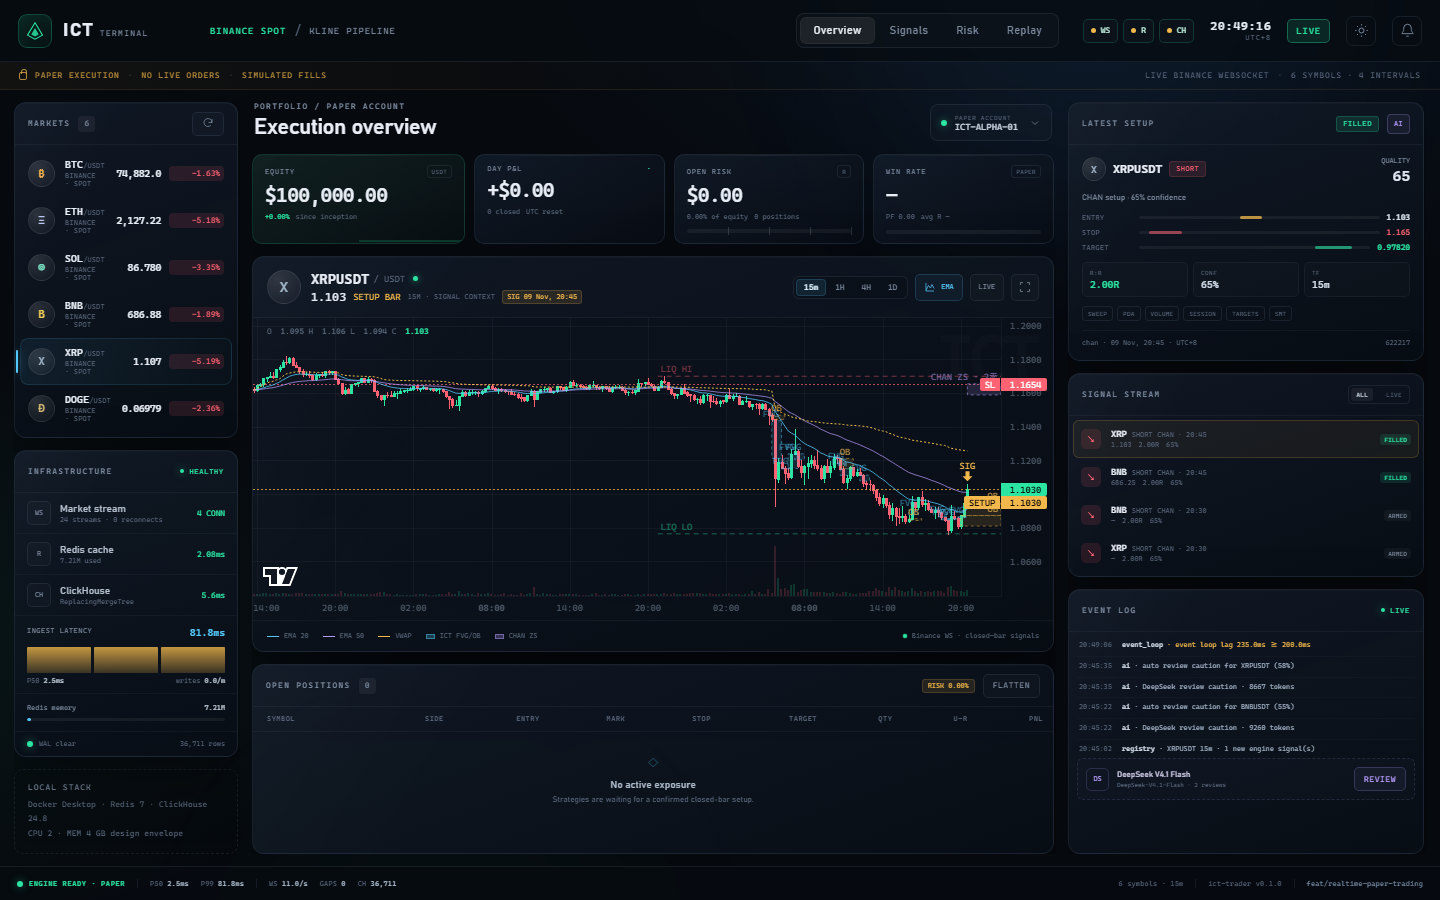
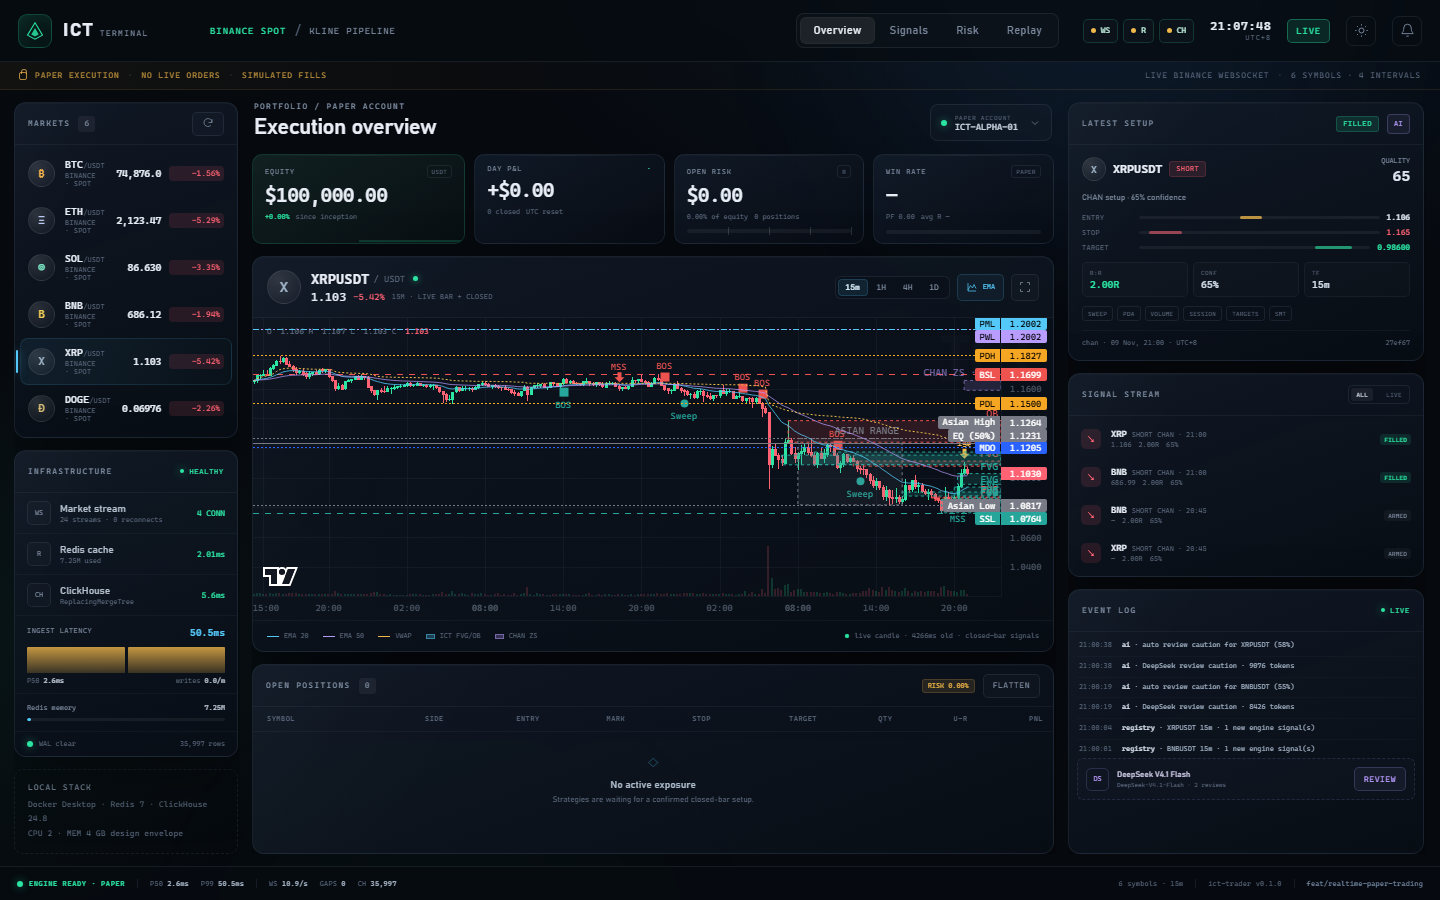
feat: add PD/PW/PM levels and ETH SMT overlays

diff --git a/src/ict_trader/realtime/static/app.js b/src/ict_trader/realtime/static/app.js
@@ -23,9 +23,15 @@
     fetchSeq: 0,
     aiBusy: false,
     aiReview: null,
+    dailyBars: [],
+    dailyKey: "",
+    smt: null,
+    smtKey: "",
+    smtBars: [],
     aiHashOpened: false,
     anchorSignalId: null,
     signalLinkOpened: false,
+    symbolLinkOpened: false,
   };
 
   const TF_MS = { "1m": 60000, "5m": 300000, "15m": 900000, "1h": 3600000, "4h": 14400000, "1d": 86400000 };
@@ -225,6 +231,11 @@
     if (location.hash === "#ai" && !S.aiHashOpened) {
       S.aiHashOpened = true;
       openAiModal();
+    }
+    const linkedSymbol = new URLSearchParams(location.search).get("symbol");
+    if (linkedSymbol && !S.symbolLinkOpened) {
+      S.symbolLinkOpened = true;
+      if ((snap.watchlist || []).some(w => w.symbol === linkedSymbol)) selectSymbol(linkedSymbol);
     }
     const linkedSignal = new URLSearchParams(location.search).get("signal");
     if (linkedSignal && !S.signalLinkOpened) {
@@ -653,6 +664,44 @@
   }
 
   // ------------------------------------------------------------- chart data
+  async function ensureContextData() {
+    const symbol = S.symbol;
+    if (!symbol) return;
+    if (S.dailyKey !== symbol) {
+      S.dailyKey = symbol;
+      S.dailyBars = [];
+      try {
+        const r = await fetch(`/api/klines?symbol=${encodeURIComponent(symbol)}&interval=1d&limit=90`, { cache: "no-store" });
+        if (r.ok) {
+          const d = await r.json();
+          if (S.symbol === symbol) S.dailyBars = d.bars || [];
+        }
+      } catch (_) { /* optional context */ }
+    }
+    const smtKey = `${symbol}|${S.tf}`;
+    if (S.smtKey !== smtKey) {
+      S.smtKey = smtKey;
+      S.smt = null;
+      S.smtBars = [];
+      if (symbol !== "BTCUSDT") {
+        try {
+          const r = await fetch(`/api/klines?symbol=ETHUSDT&interval=${encodeURIComponent(S.tf)}&limit=220&include_live=true`, { cache: "no-store" });
+          if (r.ok) {
+            const d = await r.json();
+            if (S.symbol === symbol && S.tf === smtKey.split("|")[1]) {
+              S.smtBars = d.bars || [];
+              S.smt = computeSMT(S.bars, S.smtBars);
+            }
+          }
+        } catch (_) { /* SMT is optional */ }
+      }
+    }
+    if (S.symbol === symbol) {
+      renderChartHeader(S.snap || {});
+      drawChart(true);
+    }
+  }
+
   async function loadBars() {
     if (!S.symbol) return;
     if (S.phase !== "ready") return;
@@ -683,6 +732,7 @@
       applyLiveBar(S.snap || {});
       renderChartHeader(S.snap || {});
       drawChart();
+      ensureContextData();
       if (S.bars.length) showLatestOhlc();
     } catch (err) {
       if (seq === S.fetchSeq) {
@@ -918,6 +968,80 @@
         : { fill: "rgba(120,123,134,.10)", border: "#787b86", labelColor: "#787b86" };
   }
 
+  function pivots(bars, key, left = 2, right = 2) {
+    const out = [];
+    for (let i = left; i < bars.length - right; i++) {
+      const v = num(bars[i][key]);
+      let ok = true;
+      for (let j = i - left; j <= i + right; j++) {
+        if (j === i) continue;
+        if (key === "high" ? num(bars[j].high) > v : num(bars[j].low) < v) { ok = false; break; }
+      }
+      if (ok) out.push({ i, time: chartTime(bars[i].open_time), price: v });
+    }
+    return out;
+  }
+
+  function computeSMT(bars, ethBars) {
+    if (!bars.length || !ethBars.length) return null;
+    const ethByTime = new Map(ethBars.map(b => [chartTime(b.open_time), b]));
+    const aligned = bars.map(b => ({ s: b, e: ethByTime.get(chartTime(b.open_time)) })).filter(x => x.e);
+    if (aligned.length < 20) return null;
+    const sBars = aligned.map(x => x.s), eBars = aligned.map(x => x.e);
+    const sHighs = pivots(sBars, "high"), eHighs = pivots(eBars, "high");
+    const sLows = pivots(sBars, "low"), eLows = pivots(eBars, "low");
+    if (sHighs.length >= 2 && eHighs.length >= 2) {
+      const sLast = sHighs.at(-1), sPrev = sHighs.at(-2);
+      const eLast = eHighs.at(-1), ePrev = eHighs.at(-2);
+      if (sLast.price > sPrev.price && eLast.price <= ePrev.price) {
+        return { direction: "bearish", time: sLast.time, price: sLast.price, label: "SMT HIGH" };
+      }
+    }
+    if (sLows.length >= 2 && eLows.length >= 2) {
+      const sLast = sLows.at(-1), sPrev = sLows.at(-2);
+      const eLast = eLows.at(-1), ePrev = eLows.at(-2);
+      if (sLast.price < sPrev.price && eLast.price >= ePrev.price) {
+        return { direction: "bullish", time: sLast.time, price: sLast.price, label: "SMT LOW" };
+      }
+    }
+    return null;
+  }
+
+  function dailyLevels(priceLines) {
+    const daily = S.dailyBars || [];
+    if (daily.length < 8) return;
+    const last = daily[daily.length - 1];
+    const d = new Date(num(last.open_time));
+    const dayStart = Date.UTC(d.getUTCFullYear(), d.getUTCMonth(), d.getUTCDate());
+    const prevDays = daily.filter(b => num(b.open_time) < dayStart);
+    const prev = prevDays[prevDays.length - 1];
+    if (prev) {
+      priceLines.push({ price: num(prev.high), title: "PDH", color: "#f5a623", lineStyle: 2, lineWidth: 1 });
+      priceLines.push({ price: num(prev.low), title: "PDL", color: "#f5a623", lineStyle: 2, lineWidth: 1 });
+    }
+    const dow = (d.getUTCDay() + 6) % 7;
+    const weekStart = dayStart - dow * 86400000;
+    const prevWeekStart = weekStart - 7 * 86400000;
+    const week = daily.filter(b => {
+      const t = num(b.open_time);
+      return t >= prevWeekStart && t < weekStart;
+    });
+    if (week.length) {
+      priceLines.push({ price: Math.max(...week.map(b => num(b.high))), title: "PWH", color: "#b89dff", lineStyle: 2, lineWidth: 1 });
+      priceLines.push({ price: Math.min(...week.map(b => num(b.low))), title: "PWL", color: "#b89dff", lineStyle: 2, lineWidth: 1 });
+    }
+    const monthStart = Date.UTC(d.getUTCFullYear(), d.getUTCMonth(), 1);
+    const prevMonthStart = Date.UTC(d.getUTCFullYear(), d.getUTCMonth() - 1, 1);
+    const month = daily.filter(b => {
+      const t = num(b.open_time);
+      return t >= prevMonthStart && t < monthStart;
+    });
+    if (month.length) {
+      priceLines.push({ price: Math.max(...month.map(b => num(b.high))), title: "PMH", color: "#54c8f8", lineStyle: 3, lineWidth: 1 });
+      priceLines.push({ price: Math.min(...month.map(b => num(b.low))), title: "PML", color: "#54c8f8", lineStyle: 3, lineWidth: 1 });
+    }
+  }
+
   function buildICTData(bars) {
     if (!bars.length) return { rectangles: [], priceLines: [], markers: [] };
     const step = TF_MS[S.tf] || 900000;
@@ -1003,6 +1127,20 @@
       priceLines.push({ price: hi, title: "BSL", color: "#ef5350", lineStyle: 3, lineWidth: 1, startTime: first, endTime: end });
       priceLines.push({ price: lo, title: "SSL", color: "#26a69a", lineStyle: 3, lineWidth: 1, startTime: first, endTime: end });
       priceLines.push({ price: (hi + lo) / 2, title: "EQ (50%)", color: "#787b86", lineStyle: 0, lineWidth: 1, startTime: first, endTime: end });
+    }
+
+    dailyLevels(priceLines);
+
+    if (S.smt && !S.anchorSignalId) {
+      priceLines.push({
+        price: S.smt.price, title: S.smt.label, color: S.smt.direction === "bearish" ? "#ef5350" : "#26a69a",
+        lineStyle: 2, lineWidth: 1,
+      });
+      markers.push({
+        time: S.smt.time, position: S.smt.direction === "bearish" ? "aboveBar" : "belowBar",
+        shape: "circle", color: S.smt.direction === "bearish" ? "#ef5350" : "#26a69a",
+        text: S.smt.label, kind: "Sweep", direction: S.smt.direction,
+      });
     }
 
     // Chan central zone from the newest real engine signal.

diff --git a/docs/design/ICT_CHART_TYPES.ts b/docs/design/ICT_CHART_TYPES.ts
@@ -26,7 +26,7 @@ export interface ICTMarker {
   color: string;
   text: string;
   /** ICT concept: MSS, BOS, Sweep, BSP, SIG. */
-  kind: "MSS" | "BOS" | "Sweep" | "BSP" | "SIG";
+  kind: "MSS" | "BOS" | "Sweep" | "BSP" | "SIG" | "SMT";
   direction: ICTDirection;
 }
 

diff --git a/docs/REALTIME.md b/docs/REALTIME.md
@@ -290,7 +290,14 @@ Implemented ICT semantics:
 - `Asian Range` background rectangle and High/Low price lines;
 - `MDO` midnight-open line;
 - `BSL` / `SSL` liquidity lines and `EQ (50%)`;
+- `PDH/PDL`, `PWH/PWL`, `PMH/PML` from daily context;
+- `SMT` high/low divergence against ETH for every symbol except BTC;
 - VWAP, EMA20/50, volume and Setup Entry/SL/TP lines.
+
+The daily context is loaded from `/api/klines?interval=1d&limit=90`; SMT uses
+same-timeframe ETH bars (`/api/klines?symbol=ETHUSDT&...`) and compares the last
+two confirmed swing highs/lows. The overlay is visual only and does not create
+an execution signal.
 
 The primitive uses `timeScale().timeToCoordinate()` and
 `series.priceToCoordinate()`; no DOM-pixel approximation, so pan/zoom/resize
